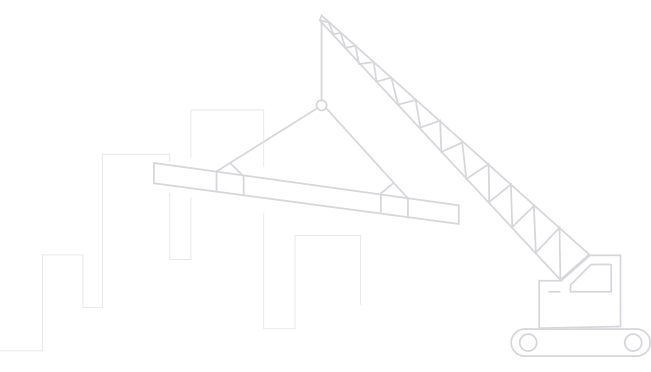
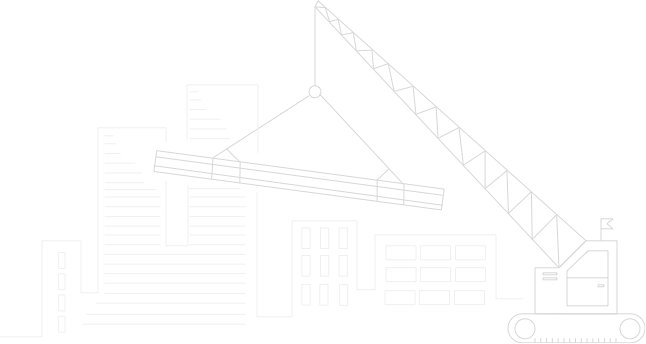
Update images

diff --git a/css/landing-page.css b/css/landing-page.css
@@ -299,7 +299,7 @@ ul.navbar-right li{
 }
 .left-side-element{
   background: url(../img/crane.png) no-repeat ;
-  width:300px;
+  width:320px;
   height:700px;
   background-size: contain;
   position:absolute;
@@ -315,7 +315,7 @@ ul.navbar-right li{
   background-size: contain;
   position:absolute;
   z-index: -100;
-  top:660px;
+  top:620px;
   left:0px;
 
 }

diff --git a/_includes/hiring.html b/_includes/hiring.html
@@ -17,7 +17,7 @@
 
 		<ul class="list-inline intro-social-buttons center">
 			<li>
-				<a href="http://google.com" class="btn btn-default btn-lg">SEE OPEN POSITIONS</a>
+				<a href="https://openspace.ai/careers.html" class="btn btn-default btn-lg">SEE OPEN POSITIONS</a>
 			</li>
 		</ul>
 	</div>
